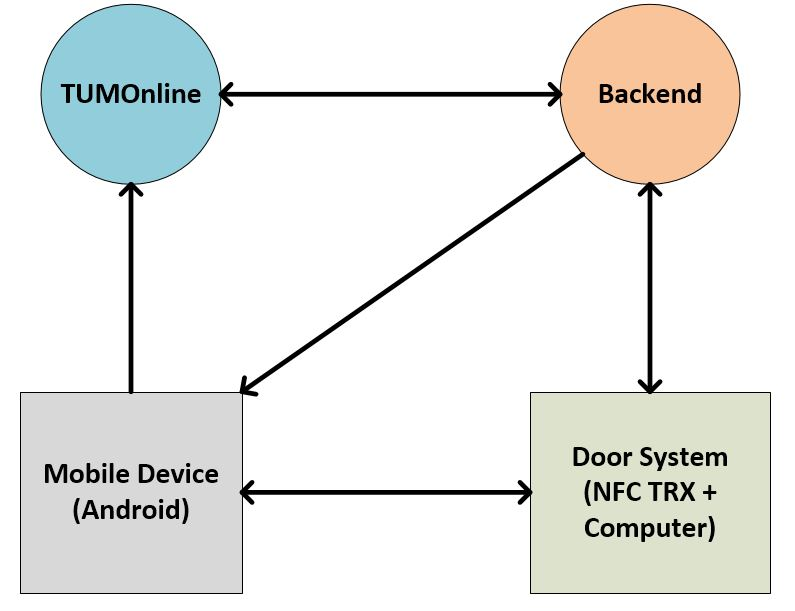
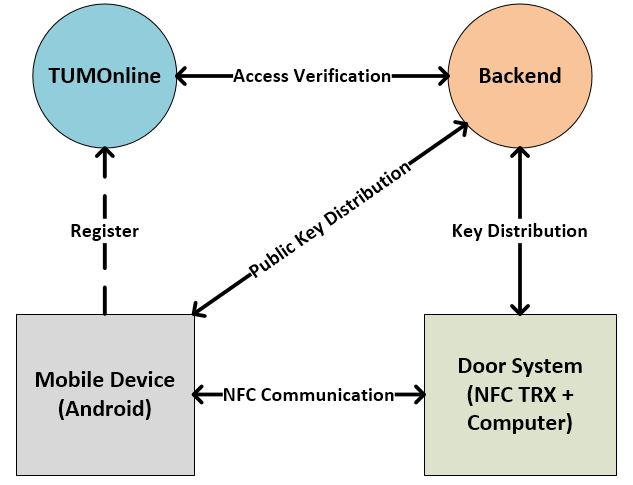
Filled out additional architecture topics, new architecture overview picture

diff --git a/idea_report/3_architecture.tex b/idea_report/3_architecture.tex
@@ -12,10 +12,14 @@ The basic architecture to develop a system like this, regarding the existing TUM
  
  A complete overview of the basic architecture: \newline
  \begin{center}
- \includegraphics[scale=0.8]{basic_architecture.jpg}
+	\includegraphics[scale=0.8]{basic_architecture.jpg}
 \end{center}
 
 
 \subsection{Registration with Backend}
+To initialize the system, the user has to contact the backend system once for authentification. The connection is planned to be secured by HTTPS. The Backend system can check if the proposed login data of the user is valid or not. For that purpose, the connection to the TUMOnline service is needed to get this kind of  information. If the user has sent the right login combination, the backend system will create a public key pair and will send the user his private key. Therefore, a key storage and management system, a simple database has to be implemented.
+
 
 \subsection{Authentication between Smartphone and NFC Transceiver}
+After the user has registered with the backend system, he can communicate with the NFC Reader. As an initialization, there is a 3-Way-Handshake to provide a secure connection where the NFC Reader and the system behind will fetch the public key of the specific user. Further, the door system will check if the user has access to the requested area and will unlock the door depending on the outcome.
+
